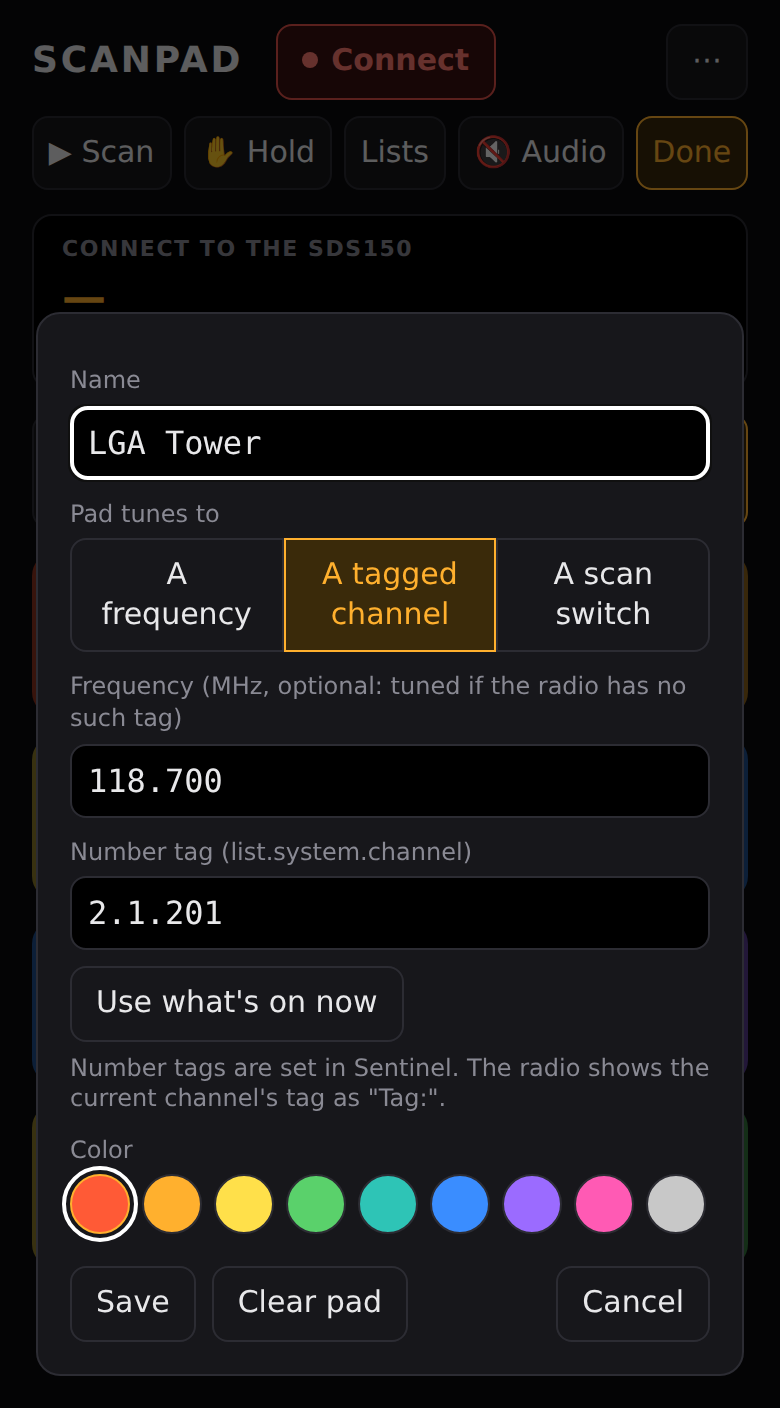
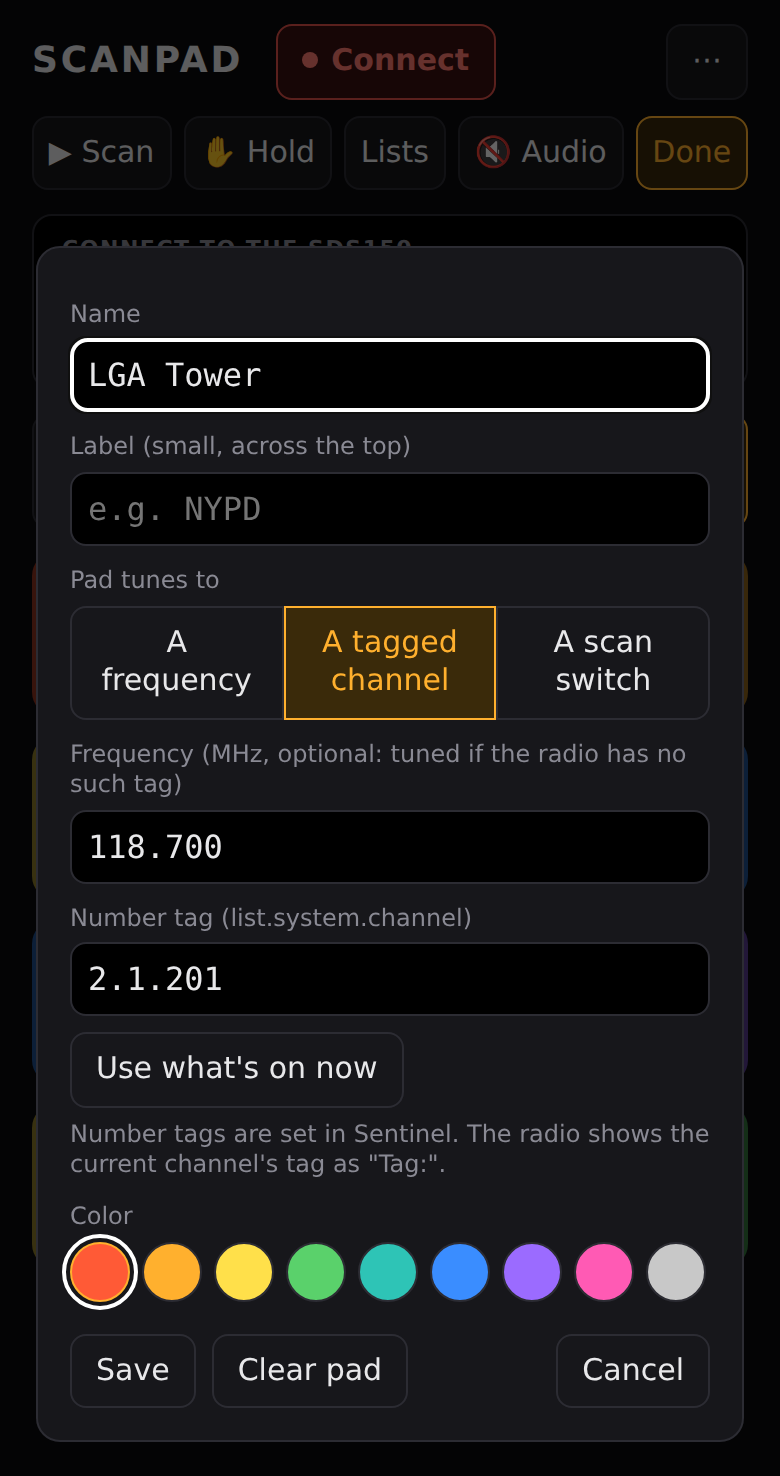
Give pads a label line, so a "Citywide" says whose it is
A pad can carry a small label across its empty top, usually the
department: Sheriff's Office over Citywide, NYPD over Citywide 1. + Pad
fills it from the department the radio shows, Edit has a Label field
for it, and names now take 40 letters instead of 24. Long names shrink
to stay clear of the label. README and edit screenshots updated.

diff --git a/index.html b/index.html
@@ -66,6 +66,12 @@
   .pad .name { font-weight: 600; font-size: calc(clamp(11px, 12cqmin, 26px) * var(--fit, 1)); line-height: 1.15; overflow-wrap: break-word; }
   .pad .freq { font: 500 calc(clamp(10px, 9.5cqmin, 20px) * var(--fit, 1)) / 1.2 system-ui, -apple-system, sans-serif; font-variant-numeric: tabular-nums; color: color-mix(in srgb, var(--text) 75%, transparent); margin-top: 2px; }
   .pad .tag { font: 500 calc(clamp(9px, 8cqmin, 17px) * var(--fit, 1)) system-ui, -apple-system, sans-serif; font-variant-numeric: tabular-nums; color: color-mix(in srgb, var(--text) 55%, transparent); margin-top: 1px; }
+  /* The label (often the department) sits in the empty top of the pad, two
+     lines at most, clear of the key letter. */
+  .pad .label { position: absolute; top: 7px; left: var(--pl, 10px); right: 7px; max-height: 2.3em; overflow: hidden; overflow-wrap: anywhere;
+    font: 600 clamp(8px, 9.75cqmin, 18px) / 1.15 system-ui, -apple-system, sans-serif; letter-spacing: .02em; text-transform: uppercase; color: color-mix(in srgb, var(--text) 60%, transparent); }
+  .pad .label::before { content: ""; float: right; width: 12cqmin; height: 1em; }
+  .pad .label:empty { display: none; }
   .pad .key { position: absolute; top: 6%; right: 8%; font: 500 clamp(9px, 7cqmin, 15px) system-ui, -apple-system, sans-serif; color: var(--dim); }
   body.editing .pad { outline: 1px dashed var(--dim); outline-offset: -6px; }
   dialog { background: var(--panel); color: var(--text); border: 1px solid var(--line); border-radius: 12px; padding: 16px; width: min(360px, calc(100vw - 32px)); }
@@ -97,7 +103,8 @@
     #banks button { padding: 6px; }
     #padArea { grid-column: 2; grid-row: 1 / span 3; }
     #grid { --g: 8px; }
-    .pad { padding: 6px 8px; }
+    .pad { padding: 6px 8px; --pl: 8px; }
+    .pad .label { top: 5px; }
   }
   /* Big screens (1080p and up): roomier controls. */
   @media (min-width: 1200px) and (min-height: 900px) {
@@ -158,7 +165,9 @@
 <dialog id="dlg">
   <form method="dialog">
     <label>Name</label>
-    <input type="text" id="fName" maxlength="24" placeholder="e.g. NYPD Citywide 3">
+    <input type="text" id="fName" maxlength="40" placeholder="e.g. Citywide 3">
+    <label>Label (small, across the top)</label>
+    <input type="text" id="fLabel" maxlength="40" placeholder="e.g. NYPD">
     <label>Pad tunes to</label>
     <div class="seg">
       <button type="button" id="kindFreq">A frequency</button>
@@ -370,8 +379,9 @@ $('addPad').onclick = () => {
   if (i < 0) return toast(`Bank ${state.bank} is full`);
   const color = COLORS[i % COLORS.length];
   const named = s.name && parseFloat(s.name) !== parseFloat(s.mhz) ? s.name : '';
-  pads[i] = s.tag ? { kind: 'tag', name: (named || s.tag).slice(0, 24), tag: s.tag, color }
-    : { name: (named || `${+parseFloat(s.mhz).toFixed(4)} MHz`).slice(0, 24), mhz: parseFloat(s.mhz).toFixed(4), color };
+  pads[i] = s.tag ? { kind: 'tag', name: (named || s.tag).slice(0, 40), tag: s.tag, color }
+    : { name: (named || `${+parseFloat(s.mhz).toFixed(4)} MHz`).slice(0, 40), mhz: parseFloat(s.mhz).toFixed(4), color };
+  if (s.dept) pads[i].label = s.dept.slice(0, 40);
   save();
   renderGrid();
   showScreen(describe(s));
@@ -448,7 +458,7 @@ function renderGrid() {
   const pads = state.banks[state.bank];
   if (!$('grid').children.length) $('grid').append(...KEYS.map((k, i) => {
     const el = document.createElement('button');
-    el.innerHTML = `<span class="key"></span><span class="name"></span><span class="freq"></span><span class="tag"></span>`;
+    el.innerHTML = `<span class="key"></span><span class="label"></span><span class="name"></span><span class="freq"></span><span class="tag"></span>`;
     el.querySelector('.key').textContent = k.toUpperCase();
     el.onclick = () => press(i);
     return el;
@@ -457,6 +467,7 @@ function renderGrid() {
     const el = $('grid').children[i];
     el.className = 'pad' + (p ? '' : ' empty') + (p && isLive(p) ? ' live' : '');
     if (p) el.style.setProperty('--c', p.color); else el.style.removeProperty('--c');
+    el.querySelector('.label').textContent = p?.label || '';
     el.querySelector('.name').textContent = p ? p.name : (editing ? '+ add' : '');
     if (p && p.kind === 'qk' && p.only) {
       el.querySelector('.freq').textContent = flipping.has(p.qk) ? 'Switching…' : isLive(p) ? 'SCANNING' : 'Scan only this';
@@ -480,8 +491,12 @@ function fitPads() {
   const key = pads.map(el => el.textContent).join('|') + `|${grid.clientWidth}x${grid.clientHeight}`;
   if (grid.fitKey === key) return;  // the screen is read up to 4 times a second
   grid.fitKey = key;
-  const over = el => el.getBoundingClientRect().top + el.clientTop + parseFloat(getComputedStyle(el).paddingTop)
-    - el.querySelector('.name').getBoundingClientRect().top;
+  const over = el => {
+    const label = el.querySelector('.label');
+    const top = label.textContent ? label.getBoundingClientRect().bottom + 2
+      : el.getBoundingClientRect().top + el.clientTop + parseFloat(getComputedStyle(el).paddingTop);
+    return top - el.querySelector('.name').getBoundingClientRect().top;
+  };
   grid.style.removeProperty('--fit');
   for (let f = 0.95; f > 0.55 && pads.some(el => over(el) > 0.5); f -= 0.05) grid.style.setProperty('--fit', f.toFixed(2));
 }
@@ -526,6 +541,7 @@ function openEditor(i) {
   editIndex = i;
   const p = state.banks[state.bank][i];
   $('fName').value = p ? p.name : '';
+  $('fLabel').value = p?.label || '';
   $('fMhz').value = p && p.mhz ? fmtMhz(p.mhz) : '';
   $('fTag').value = p && p.kind === 'tag' ? p.tag : '';
   $('fQk').value = p && p.kind === 'qk' ? p.qk : '';
@@ -558,7 +574,8 @@ $('useNow').onclick = () => {
   if (!screen) return toast('Still reading the radio; try again in a second');
   if (!screen.tag) return toast(`"${screen.name || 'This channel'}" has no number tag. Give it one in Sentinel.`);
   $('fTag').value = screen.tag;
-  if (!$('fName').value.trim()) $('fName').value = screen.name.slice(0, 24);
+  if (!$('fName').value.trim()) $('fName').value = screen.name.slice(0, 40);
+  if (!$('fLabel').value.trim()) $('fLabel').value = (screen.dept || '').slice(0, 40);
 };
 
 function renderSwatches() {
@@ -601,6 +618,10 @@ $('dlg').querySelector('form').addEventListener('submit', e => {
     } else {
       pads[editIndex] = { name: $('fName').value.trim() || fmtMhz(mhz), mhz, mode, color: pickedColor };
     }
+  }
+  const label = $('fLabel').value.trim();
+  if (v === 'save' && pads[editIndex]) {
+    if (label) pads[editIndex].label = label; else delete pads[editIndex].label;
   }
   $('dlg').close();
   save();

diff --git a/README.md b/README.md
@@ -81,7 +81,9 @@ rail on D. See [Pad sets](#pad-sets) for the full list.
 
 1. Tap **Edit**. The pads get a dashed outline.
 2. Tap the pad to change, or an empty one (**+ add**).
-3. Give it a name and choose what it tunes to:
+3. Give it a name, and if you like a **Label**: a small line across the top
+   of the pad, handy for the department (`Sheriff`, `NYPD`) when several
+   channels share a name like "Citywide". Choose what it tunes to:
    - **A frequency**: type it in MHz, e.g. `162.55`.
    - **A tagged channel**: type its number tag, e.g. `2.1.201`. See the next
      how-to.
@@ -103,7 +105,8 @@ now, tap **Use what's on now**.
    number tag is held by its tag (talkgroups too); one without, by its
    frequency.
 3. If that channel isn't a pad yet, the display strip shows **＋ Pad**. Tap it
-   to put the channel on the first empty pad of the bank you're on. Rename or
+   to put the channel on the first empty pad of the bank you're on, named as
+   the radio names it, with its department as the label. Rename, relabel or
    recolor it later with **Edit**.
 4. Tap **▶ Scan** to carry on scanning.
 
@@ -255,6 +258,7 @@ the project and ship your own sets. The format is four banks of 16 pads each
   "banks": {
     "A": [
       { "name": "NOAA WX1", "mhz": "162.5500", "mode": "NFM", "color": "#5ad16b" },
+      { "kind": "tag", "name": "Citywide", "label": "Sheriff", "tag": "1.5.2", "color": "#d9822b" },
       { "kind": "tag", "name": "LGA Tower", "tag": "2.1.201", "mhz": "118.7000", "mode": "AM", "color": "#ff5a36" },
       { "kind": "qk", "name": "Aviation only", "qk": "2", "only": true, "color": "#5ad16b" },
       null
@@ -264,6 +268,8 @@ the project and ship your own sets. The format is four banks of 16 pads each
 }
 ```
 
+- `name`: up to 40 letters.
+- `label`: optional; a small line across the top of the pad (also up to 40).
 - `mhz`: frequency in MHz. Required unless the pad has a tag.
 - `kind: "tag"` with `tag`: jump to the channel with this Sentinel number tag
   (favorites list . system . channel).
